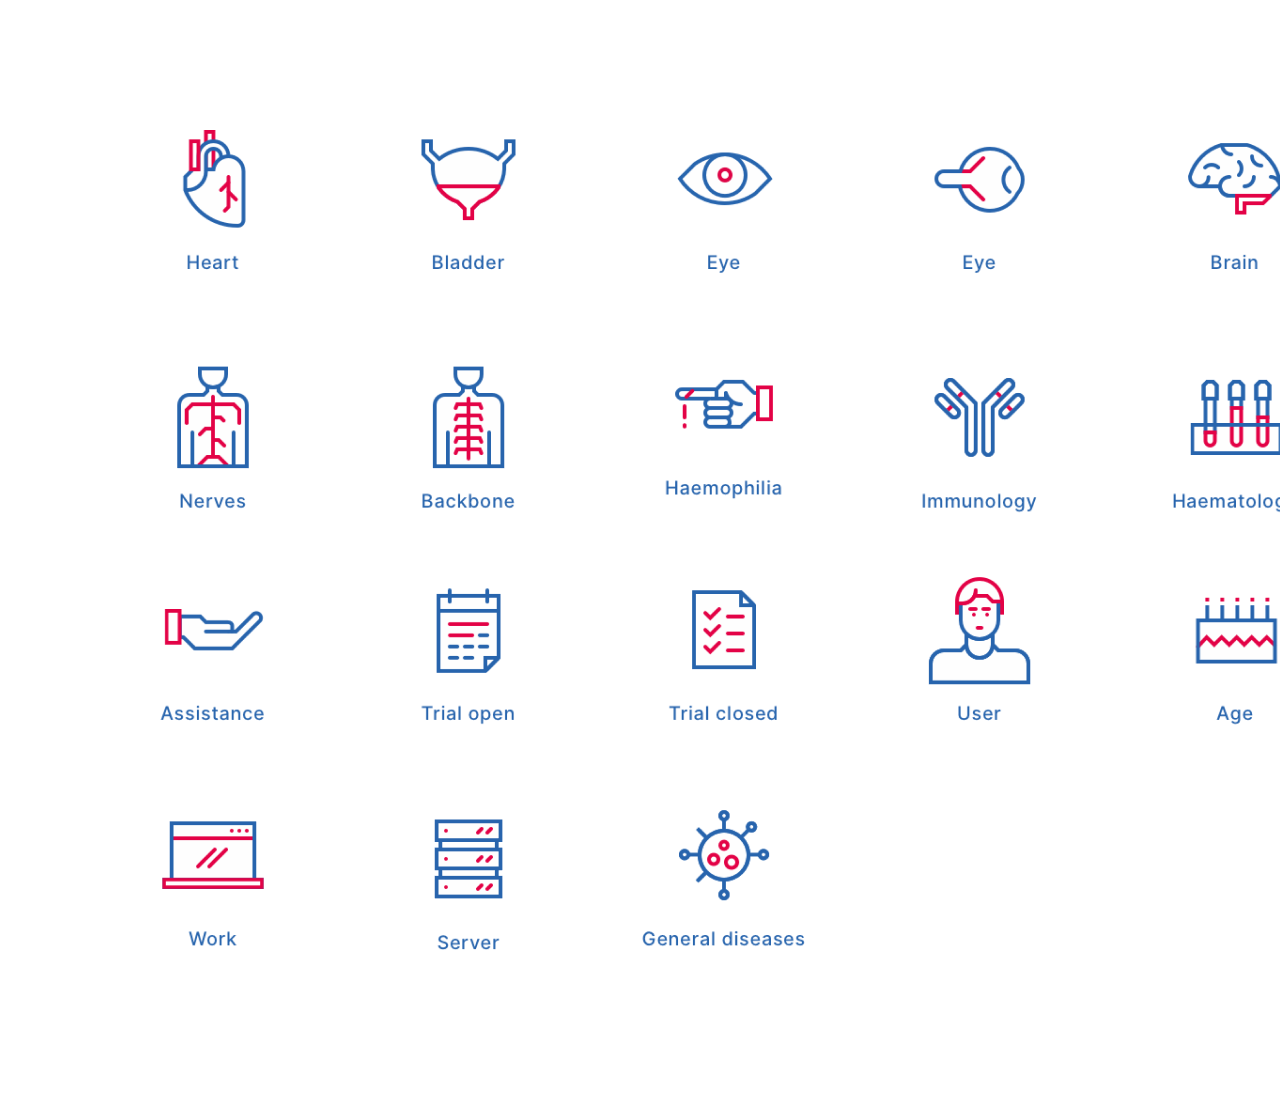
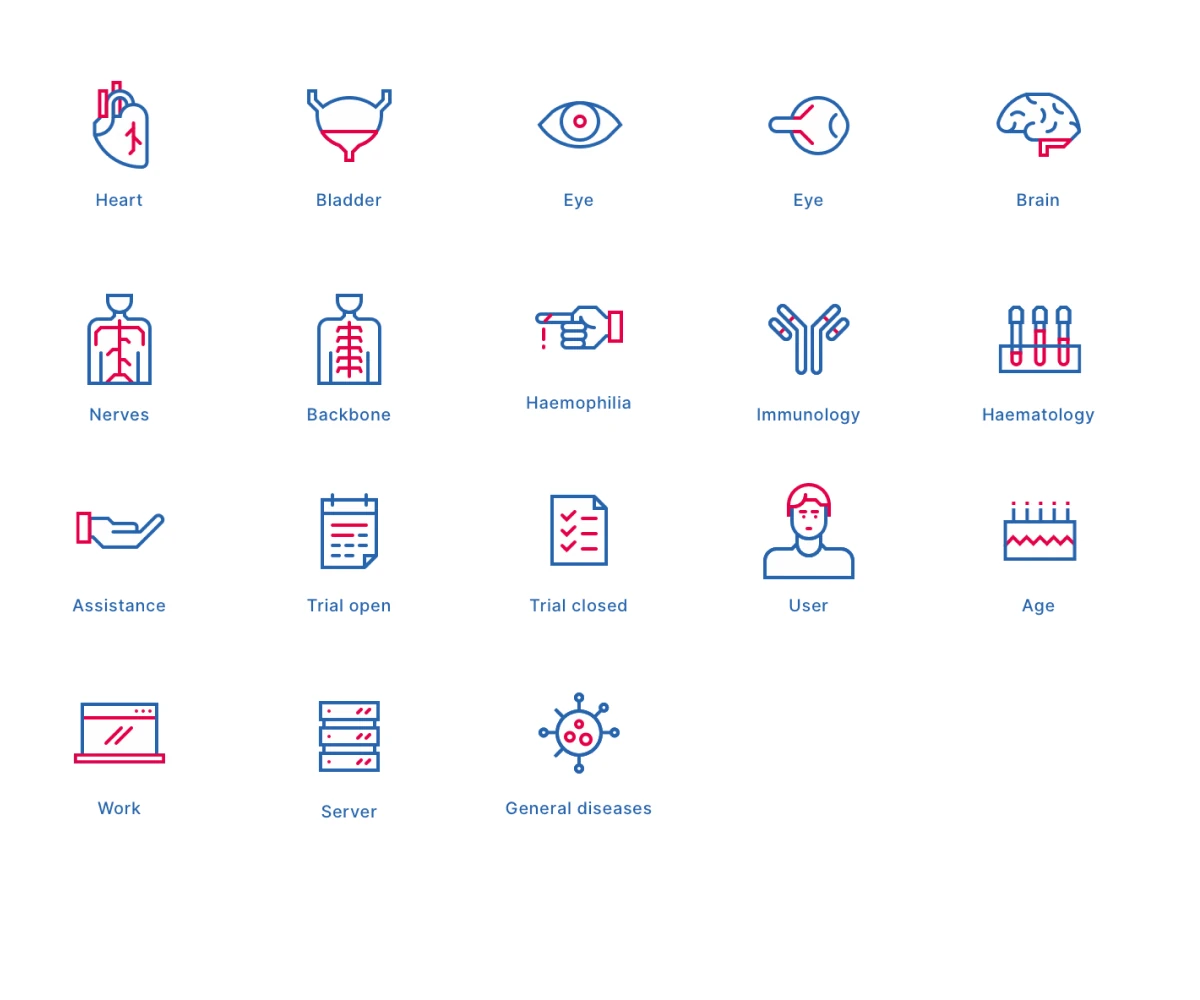
cards media
small

diff --git a/src/components/ProjectMedia.jsx b/src/components/ProjectMedia.jsx
@@ -100,26 +100,37 @@ const MEDIA_VARS = {
   // `small` takes NEITHER regime treatment from `xl` up -- no artwork shrink
   // and no height cap. One frame ratio and one artwork width at every width.
   //
-  // RESAMPLED 2026-08-27 from Flore's edit to the ProjectMedia instance
-  // (node 2928:78184), which now draws 354.67 x 340 with the artwork at
-  // 287.77 x 250:
+  // The artwork width, 81.1372% (287.77 of 354.67), is Flore's own from the
+  // ProjectMedia instance (node 2928:78184) and is NOT touched by this pass --
+  // only the artwork's crop and the frame's height moved.
   //
-  //   frame  340    of 354.67  =  95.8639%   (was 108.5527%, and 96% at xl)
-  //   image  287.77 of 354.67  =  81.1372%   (was 90.23%)
+  // DERIVED, not sampled -- recomputed 2026-08-28 from the 3:2 crop above.
+  // Against Figma's 354.667 card, with the artwork at 81.1372% (287.77 wide):
   //
-  // The `xl:[--media-frame:96%]` override is gone rather than kept at a new
-  // value: it existed because the artwork's own height forced a taller frame
-  // than Figma drew, and the base ratio is now 95.86% -- the same number that
-  // override was reaching for. One value, no regime split.
+  //   panel padding    Spaces/4 top + 12 bottom =  16
+  //   caption          2 lines x 14 x 1.4       =  39.2   (reserved, below)
+  //   caption gap      Spaces/8                 =   8
+  //   artwork          whatever is left         = 191.85
+  //                                              -------
+  //   content                                     255.05 -> 71.91% of 354.667
   //
-  // Content minimum, rechecked because it is what made this variant awkward
-  // before: artwork 250 + caption gap 16 + caption 40 = 306, which is 86.3% of
-  // the card. The 95.86% ratio sits ABOVE that, so the ratio governs the height
-  // and the spacer minimum is not being hit. That was not true of the old
-  // numbers. See the note below.
+  // Read the other way round now that the artwork is flexible: this percentage
+  // SETS the panel height, and the artwork gets the remainder. 71.91% keeps the
+  // artwork at the 288x192 that Flore signed off ("it looks good"), while the
+  // padding and the tighter caption gap come from her component. Raise this
+  // number and the artwork gets taller; nothing else needs touching.
+  //
+  // The frame ratio and the content height are therefore THE SAME NUMBER, on
+  // purpose. The frame is a grid cell holding a ratio spacer and the content,
+  // so whichever is taller wins; making them equal means the panel is exactly
+  // as tall as it needs to be and no taller, and every card in the row lands on
+  // the same height. Re-derive this if the crop, the artwork width or the
+  // caption reservation change -- it is arithmetic, not taste.
+  //
+  // Image cap re-derived with it: 287.77 / 255.05 = 1.1283.
   small:
-    '[--media-frame:95.8639%] [--media-image:81.1372%] ' +
-    '[--media-frame-cap:100svh] [--media-image-cap:84.64svh]',
+    '[--media-frame:71.91%] [--media-image:81.1372%] ' +
+    '[--media-frame-cap:100svh] [--media-image-cap:112.83svh]',
 }
 
 // --- `small`: WHY IT CANNOT BE LANDSCAPE YET (2026-08-27) -------------------
@@ -256,14 +267,45 @@ const MEDIA_VARS = {
 const IMAGE_ASPECT = {
   large: '880 / 447',
   medium: '530.904 / 315.719',
-  small: '320 / 278',
+  // `small` DECLARES NO RATIO -- Flore, 2026-08-28: "it doesn't work with
+  // images of a fixed size... the images sizes should be more flexible."
+  //
+  // It briefly had `3 / 2` here, which is exactly the fixed size she is
+  // objecting to: a hardcoded crop that every other number had to be arranged
+  // around, and that silently overrode whatever ratio she exported. Her
+  // component makes the artwork a MASK inside the panel instead (node
+  // 2928:78065 -- `overflow-clip` with the image scaled larger behind it), so
+  // the crop is a consequence of the box, not a declaration.
+  //
+  // `small` instead sets a FLOOR, not a size. The artwork is `flex-1` in the
+  // stack below, so it takes whatever height is left after the caption, its gap
+  // and the panel's padding -- but it will not shrink past 3:2, because on a
+  // flex item `min-height: auto` resolves to the intrinsic size and an
+  // `aspect-ratio` is what supplies that.
+  //
+  // That floor is what makes the group height adapt to the caption, which is
+  // the behaviour Flore asked for ("The height of the small cards group should
+  // adapt to the longest text (number of lines)"). Without it a longer caption
+  // silently ate the artwork instead:
+  //
+  //   2-line caption   leftover 192 = the floor exactly -> panel 255, ratio wins
+  //   3-line caption   leftover 172 < floor             -> artwork holds at 192
+  //                                                        and the panel GROWS
+  //
+  // So the number is a minimum shape, not a fixed crop -- the artwork is free
+  // to be less cropped whenever there is room, and the panel is free to be
+  // taller whenever the words need it.
+  smallFloor: '3 / 2',
+  small: null,
 }
 
 // Gap between artwork and caption, inside the tinted area.
 const STACK_GAP = {
   large: 'gap-space-24',
   medium: 'gap-space-12',
-  small: 'gap-space-16',
+  // 8 as of 2026-08-28, from Flore's component (Image mask 2928:78065, whose
+  // 252.66 height is 204.66 artwork + 8 + 40 caption).
+  small: 'gap-space-8',
 }
 
 // Small is the one variant whose artwork is right-aligned rather than centred:
@@ -325,26 +367,76 @@ export default function ProjectMedia({ src, alt, caption, size = 'medium', badge
       />
       <div
         data-component="project-media-tint"
-        className={`flex flex-col justify-center [grid-area:1/1] ${STACK_ALIGN[size]} ${FRAME_RADIUS[size]}`}
+        // PANEL PADDING is `small`-only, from Flore's component: Spaces/4 at the
+        // top and Spaces/12 at the bottom, added 2026-08-28 "to make the
+        // captions visible". The other two sizes have never had any -- their
+        // artwork is centred in a frame with room to spare.
+        className={`flex flex-col justify-center [grid-area:1/1] ${STACK_ALIGN[size]} ${FRAME_RADIUS[size]} ${
+          size === 'small' ? 'pb-space-12 pt-space-4' : ''
+        }`}
         style={{ backgroundColor: tint }}
       >
         <div
-          className={`flex flex-col items-center justify-center ${STACK_GAP[size]}`}
+          // `h-full` on `small` so the stack fills the padded panel and the
+          // artwork below has a height to take a share OF. Without it the stack
+          // is content-sized, `flex-1` has nothing to grow into, and the
+          // artwork collapses to nothing.
+          className={`flex flex-col items-center justify-center ${STACK_GAP[size]} ${
+            size === 'small' ? 'h-full' : ''
+          }`}
           style={{ width: 'min(var(--media-image), var(--media-image-cap))' }}
         >
           <img
             src={src}
             alt={alt}
-            className="w-full object-cover"
+            // THE FLEXIBLE ARTWORK, for sizes that declare no IMAGE_ASPECT
+            // (currently `small` only -- see the note there). It takes the
+            // height left over after the caption, the gap and the padding, and
+            // `object-cover` crops the file to that box.
+            //
+            // `min-h-0` because a flex item will not shrink below its content's
+            // intrinsic size without it, and an <img>'s intrinsic height is the
+            // file's full height -- so the artwork would push the panel taller
+            // instead of fitting inside it.
+            // NO `min-h-0` on the flexible variant, deliberately: that class
+            // is the usual companion to `flex-1`, and here it would defeat the
+            // floor. `min-height: auto` is what lets the aspect-ratio act as a
+            // minimum; zeroing it lets the artwork shrink to nothing and the
+            // panel never grows for a long caption.
+            className={`w-full object-cover ${IMAGE_ASPECT[size] ? '' : 'flex-1'}`}
             loading="lazy"
             decoding="async"
-            style={{ aspectRatio: IMAGE_ASPECT[size] }}
+            style={{ aspectRatio: IMAGE_ASPECT[size] ?? IMAGE_ASPECT.smallFloor }}
           />
           {caption && (
             <p
               data-component="project-media-caption"
+              // TWO LINES RESERVED ON `small` -- Flore, 2026-08-28: "The
+              // background should fill and adjust to the media in the row with
+              // the longest text (so everything is aligned)."
+              //
+              // The three panels are equal-width and share one frame ratio, so
+              // the only thing that could make them different heights is the
+              // caption's line count: Sinomocene's runs to two lines where
+              // Teamchatviz's and Roche's run to one. Under the old near-square
+              // ratio that was invisible, because the frame was tall enough to
+              // swallow the extra line. At the new, tighter ratio it would
+              // show as one panel standing proud of its neighbours.
+              //
+              // Reserving the taller case makes all three identical BY
+              // CONSTRUCTION rather than by the ratio happening to be generous
+              // -- which is also why the frame percentage above can be derived
+              // exactly instead of padded for safety.
+              //
+              // `2.8em` = 2 lines x the token's own 1.4 line-height, in `em` so
+              // it tracks `text-caption` as that ramps 12 -> 13 -> 14 across
+              // breakpoints. A hardcoded px would drift at two of the three.
+              //
+              // A THREE-line caption would break the row again. That is the
+              // right failure: it is visible immediately and the fix is to
+              // shorten the caption, which is a content decision.
               className={`w-full text-center text-caption font-normal ${
-                size === 'small' ? 'pr-space-12' : ''
+                size === 'small' ? 'min-h-[2.8em] pr-space-12' : ''
               }`}
             >
               {caption}

diff --git a/src/components/ProjectCard.jsx b/src/components/ProjectCard.jsx
@@ -36,7 +36,23 @@ export default function ProjectCard({ project, size = 'medium' }) {
       // `group` so the media frame can lift on hover of the card as a whole
       // (see ProjectMedia); `relative` so the CTA's stretched ::after below
       // has this article as its containing block.
-      className="group relative flex w-full min-w-0 scroll-mt-space-120 flex-col gap-space-16 2xl:gap-space-24"
+      // SMALL CARDS ARE SUBGRID ITEMS, the rest are flex columns.
+      //
+      // The 3-up row declares two tracks (see WORK_GRID_3UP); a small card
+      // spans both and adopts them, so its media panel shares a track with its
+      // two neighbours and they all take the tallest one's height. That is what
+      // makes the row survive a caption wrapping to an extra line.
+      //
+      // `gap-space-16` still wins over the parent's `gap-y-space-72`: a subgrid
+      // inherits the parent's gaps but may override them, and this does.
+      // Verified in the browser -- inner gap 16, column gap 60, unchanged.
+      //
+      // The other sizes stay flex: `large` sits alone in its own wrapper and
+      // `medium` has no fixed-ratio panel to be pushed past, so neither has a
+      // row to align with.
+      className={`group relative w-full min-w-0 scroll-mt-space-120 gap-space-16 2xl:gap-space-24 ${
+        size === 'small' ? 'row-span-2 grid grid-rows-subgrid' : 'flex flex-col'
+      }`}
     >
       <ProjectMedia
         src={assetUrl(project.thumbnail)}

diff --git a/src/lib/layout.js b/src/lib/layout.js
@@ -189,8 +189,21 @@ export const WORK_GRID_2UP =
 // itself. Measured, not theorised. Staying 2-up through the tablet band puts
 // them at ~451 instead, comfortably above the 320 editorial card, and 3-up
 // resumes at xl where the container is wide enough to afford it.
+// `grid-rows-[auto_auto]` is not decoration: the small cards SUBGRID onto these
+// two tracks (media, then text) so that all three media panels take the height
+// of the tallest -- Flore, 2026-08-28: "The height of the small cards group
+// should adapt to the longest text (number of lines)."
+//
+// Without it each card sizes its own panel and a caption that wraps to an extra
+// line leaves one panel standing proud of its neighbours. Verified in the
+// browser: forcing a third line on one caption takes all three panels 255 ->
+// 275 together.
+//
+// Only the 3-up row needs it, because it is the only grid whose cards carry a
+// fixed-ratio panel that a caption can push past. See ProjectCard, which opts
+// in on `size === 'small'` only.
 export const WORK_GRID_3UP =
-  'grid grid-cols-1 gap-y-space-72 sm:grid-cols-2 sm:gap-x-space-24 lg:gap-x-space-40 xl:grid-cols-3 xl:gap-x-space-60'
+  'grid grid-cols-1 grid-rows-[auto_auto] gap-y-space-72 sm:grid-cols-2 sm:gap-x-space-24 lg:gap-x-space-40 xl:grid-cols-3 xl:gap-x-space-60'
 
 // --- Editorial grids (12 col / 24px gutter) ---------------------------------
 
